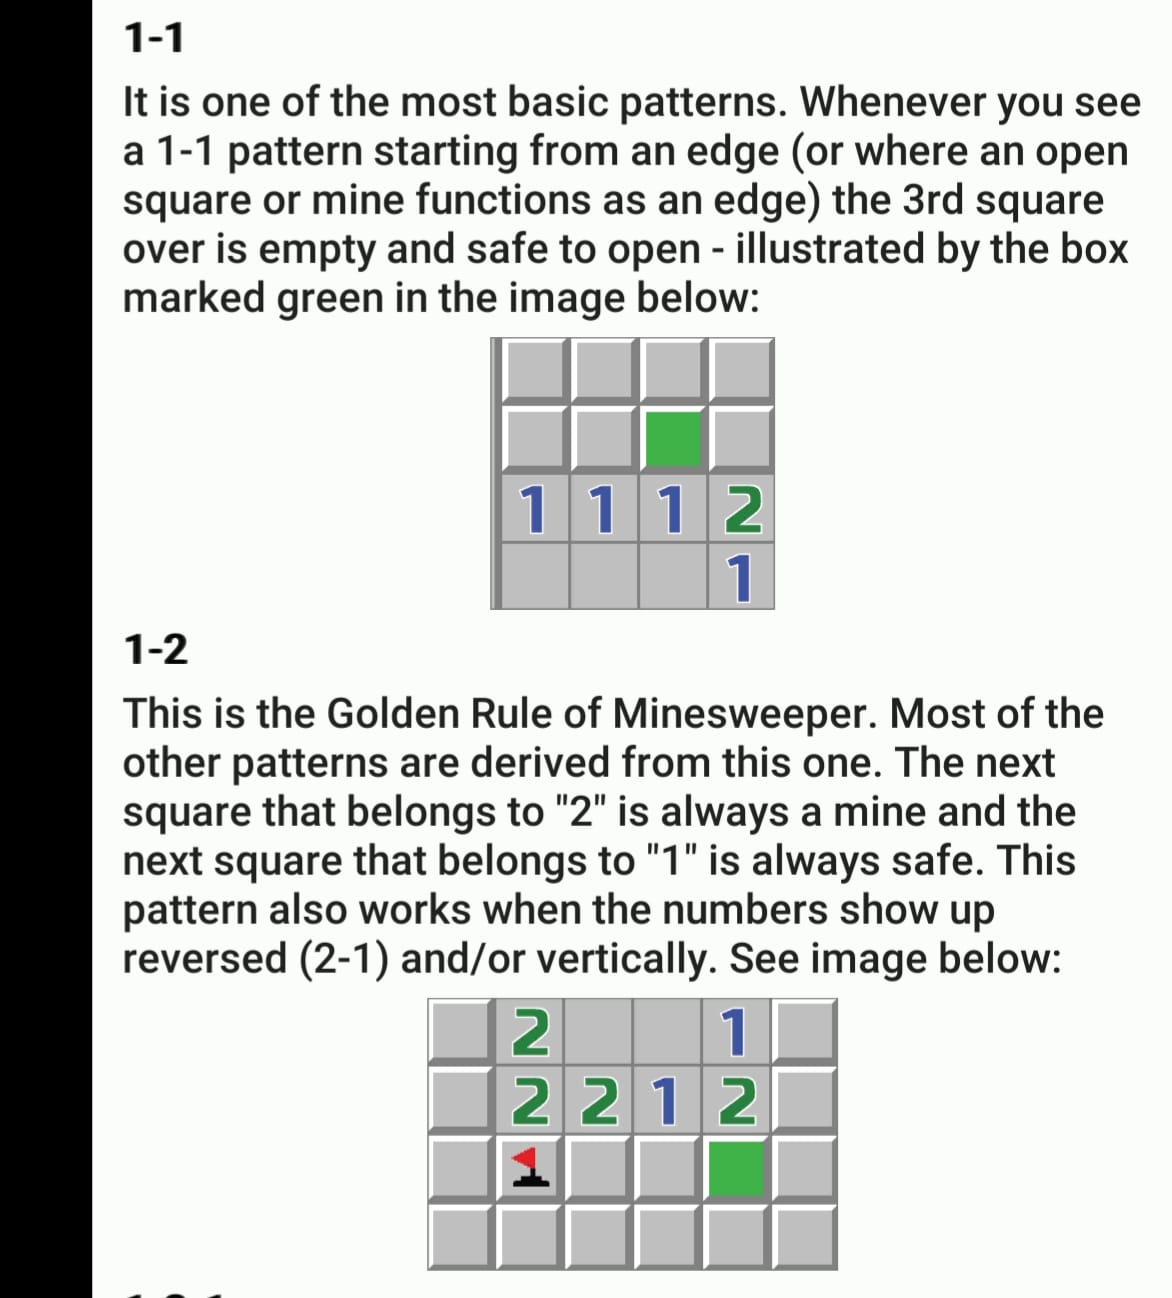
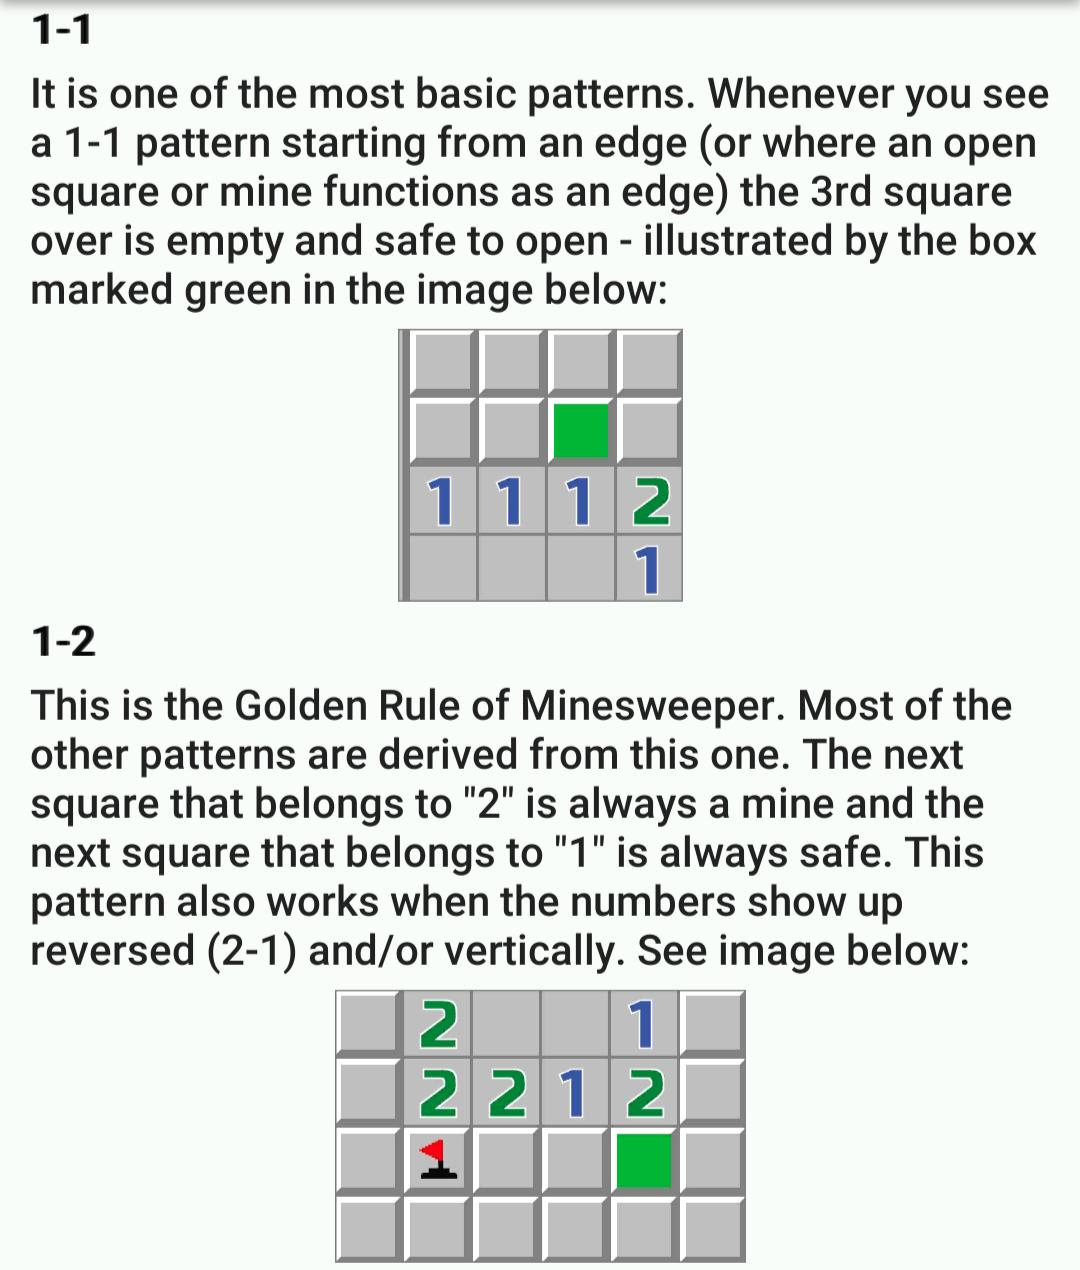
minesweeper post: replace images + side-by-side layout on larger screens

diff --git a/_posts/2026-06-07-its-exactly-like-minesweeper.md b/_posts/2026-06-07-its-exactly-like-minesweeper.md
@@ -42,9 +42,10 @@ Anyway, back to minesweeper. Even after this first unlock, I couldn't finish *al
 
 And while having no internet on a very long flight, I started clicking random buttons on the minesweeper app on my phone and found this help page:
 
-![Minesweeper patterns — Reduction technique and Holes](/assets/img/posts/minesweeper/patterns-1.jpg)
-
-![Minesweeper patterns — the 1-1 rule and the 1-2 Golden Rule](/assets/img/posts/minesweeper/patterns-2.jpg)
+<div style="display: flex; flex-wrap: wrap; gap: 1rem; align-items: flex-start; justify-content: center;">
+  <img src="/assets/img/posts/minesweeper/patterns-1.jpg" alt="Minesweeper patterns — Reduction technique and Holes" style="flex: 1 1 280px; max-width: 48%;">
+  <img src="/assets/img/posts/minesweeper/patterns-2.jpg" alt="Minesweeper patterns — the 1-1 rule and the 1-2 Golden Rule" style="flex: 1 1 280px; max-width: 48%;">
+</div>
 
 What??? I spent countless hours playing minesweeper. I can't believe I didn't notice these simple rules (and by "rules" I don't mean the basics — I mean the *patterns* that arise from them, like the ones in those images above)... After reading them, I was a bit skeptical. I knew the basics and some simple patterns: these new ones didn't seem so groundbreaking! But I decided to give them a try.
 